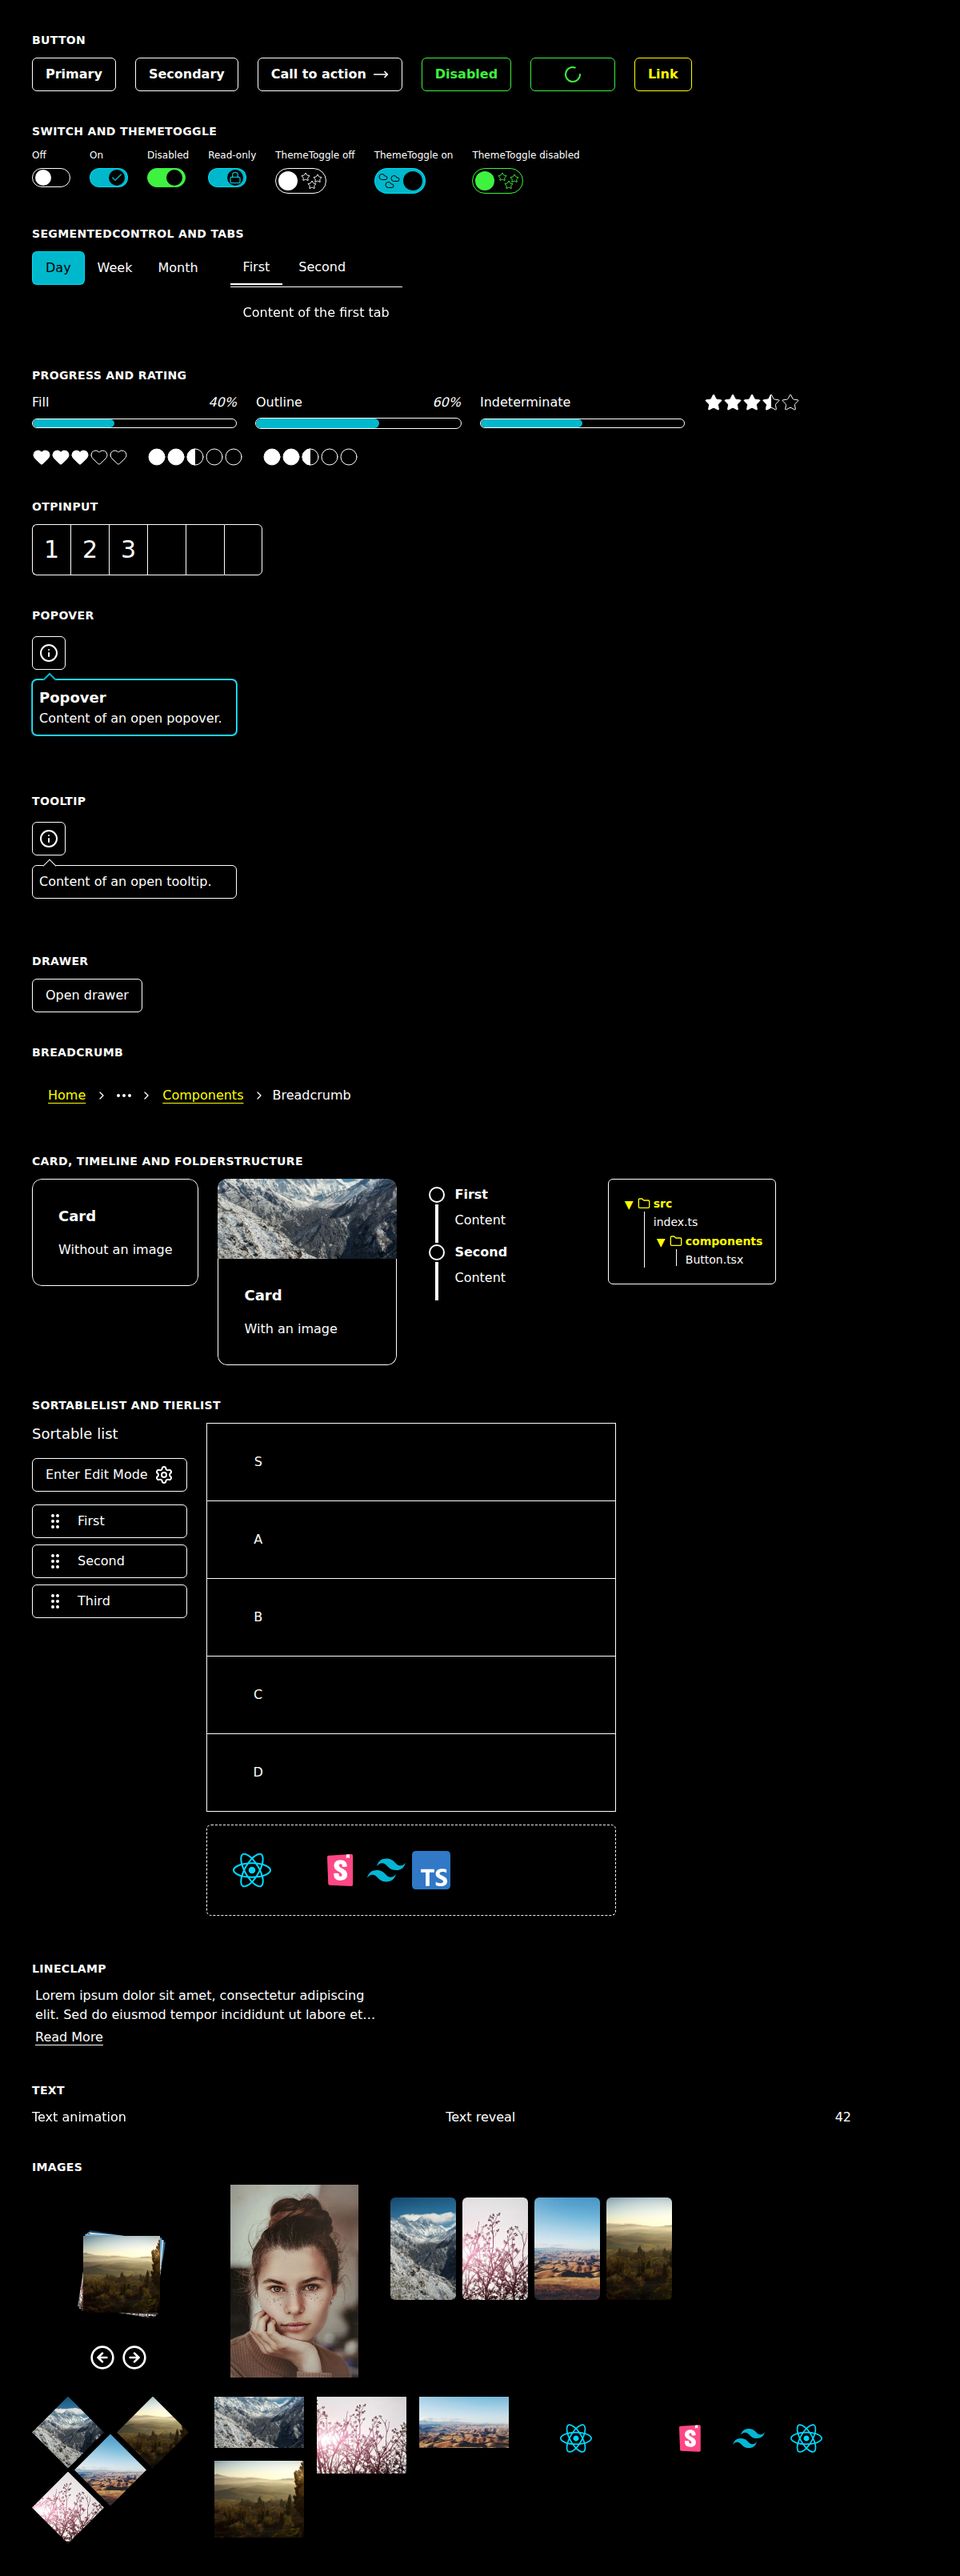
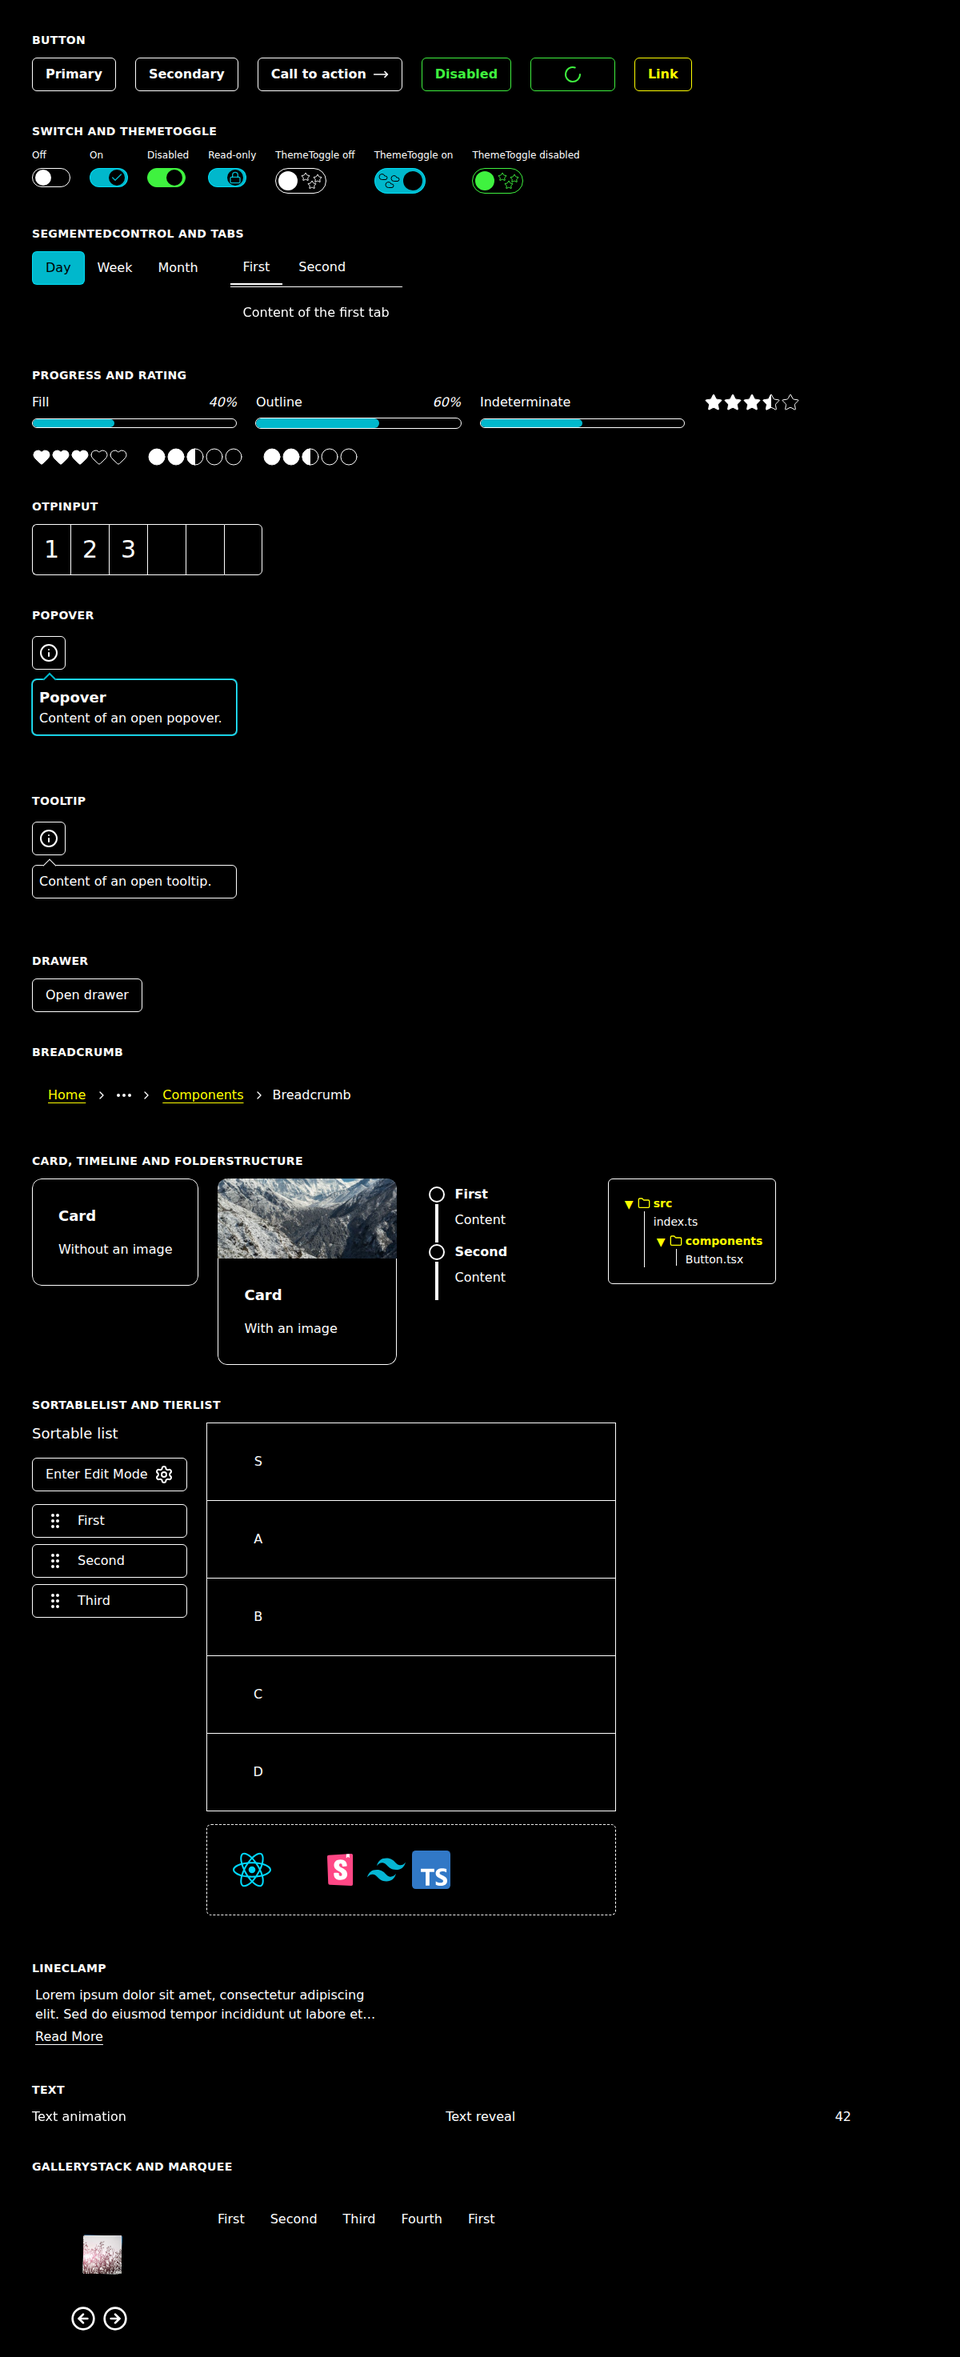
Leave layout-only image components out of the All Components page
DiamondGrid, ImageShowcase, Masonry and ShimmerImage only lay out
images or add effects that forced colors don't change, and their photos
made the high contrast screenshots several times larger. GalleryStack
stays for its buttons, with two images; Marquee scrolls text instead of
logos. The screenshots go from about 1.1 MB to 590 KB.

Claude-Session: https://claude.ai/code/session_01Tpmt357CoN6A5EUsutHyN1

diff --git a/src/_stories/AllComponentsGallery.tsx b/src/_stories/AllComponentsGallery.tsx
@@ -10,19 +10,16 @@ import {
   Card,
   CardContent,
   CardTitle,
-  DiamondGrid,
   Drawer,
   DrawerContent,
   DrawerRoot,
   DrawerTrigger,
   FolderStructure,
   GalleryStack,
-  ImageShowcase,
   LineClamp,
   LineClampRoot,
   LineClampTrigger,
   Marquee,
-  Masonry,
   OTPInput,
   Popover,
   PopoverContent,
@@ -31,7 +28,6 @@ import {
   Progress,
   Rating,
   SegmentedControl,
-  ShimmerImage,
   SortableList,
   Switch,
   Tabs,
@@ -46,16 +42,13 @@ import {
 } from "../../index";
 import image001 from "../_data/images/picture001.jpg";
 import image002 from "../_data/images/picture002.jpg";
-import image003 from "../_data/images/picture003.jpg";
-import image004 from "../_data/images/picture004.jpg";
-import profilePicture from "../_data/images/profile001.jpg";
 import NextIcon from "../_data/icons/next.svg";
 import ReactIcon from "../_data/icons/react.svg";
 import StorybookIcon from "../_data/icons/storybook.svg";
 import TailwindIcon from "../_data/icons/tailwind.svg";
 import TypeScriptIcon from "../_data/icons/typescript.svg";
 
-const images = [image001, image002, image003, image004];
+const images = [image001, image002];
 
 const Section = ({ title, children }: { title: string; children: React.ReactNode }) => (
   <section aria-labelledby={`gallery-${title}`} className="flex flex-col gap-3">
@@ -77,6 +70,10 @@ const Example = ({ label, children }: { label: string; children: React.ReactNode
  * Every component on one page, in the states that look different: selected, checked, disabled, loading, read-only, open.
  * Overlays are rendered open, except the Drawer, which is modal: the high contrast screenshot script opens it separately.
  * Keep it deterministic: the screenshots of this page are compared over time.
+ *
+ * DiamondGrid, ImageShowcase, Masonry and ShimmerImage are left out on purpose: they only lay out images or add effects
+ * (filters, a gradient) that forced colors don't change, and their photos would make the screenshots several times larger.
+ * Add a component like that once it gets its own colors, borders or controls. GalleryStack stays for its buttons.
  */
 export const AllComponentsGallery = () => (
   <div className="flex max-w-5xl flex-col gap-10 text-foreground">
@@ -257,35 +254,17 @@ export const AllComponentsGallery = () => (
       <AnimatedCount count={42} duration={500} />
     </Section>
 
-    <Section title="Images">
-      <div className="relative h-56 w-56">
+    <Section title="GalleryStack and Marquee">
+      <div className="relative h-44 w-44">
         <GalleryStack>
           {images.map((src, idx) => (
-            <img src={src} alt="" width={180} height={180} key={idx} />
+            <img src={src} alt="" width={120} height={120} key={idx} />
           ))}
         </GalleryStack>
       </div>
-      <ShimmerImage src={profilePicture} width={160} alt="" />
-      <ImageShowcase className="h-40 w-96">
-        {images.map((src, idx) => (
-          <img src={src} alt="" key={idx} />
-        ))}
-      </ImageShowcase>
-      <DiamondGrid itemWidth={90}>
-        {images.map((src, idx) => (
-          <img src={src} alt="" width={90} height={90} key={idx} />
-        ))}
-      </DiamondGrid>
-      <div className="w-96">
-        <Masonry columns={3}>
-          {images.map((src, idx) => (
-            <img src={src} alt="" key={idx} className={idx % 2 ? "h-24 object-cover" : "h-16 object-cover"} />
-          ))}
-        </Masonry>
-      </div>
       <Marquee className="w-96" pauseOnHover={false}>
-        {[ReactIcon, NextIcon, StorybookIcon, TailwindIcon].map((icon, idx) => (
-          <img src={icon} alt="" className="h-10 w-10" key={idx} />
+        {["First", "Second", "Third", "Fourth"].map((item) => (
+          <span key={item}>{item}</span>
         ))}
       </Marquee>
     </Section>

diff --git a/docs/ACCESSIBILITY.md b/docs/ACCESSIBILITY.md
@@ -143,7 +143,7 @@ Checked in the published code of Fluent UI v9, React Spectrum S2, MUI 9 (includi
 
 ### Testing
 
-- **Storybook:** the **Overview/All Components** page has every component in its notable states. Its **High Contrast** story shows screenshots of that page in both emulated palettes, including an open Drawer. After changing a component's styles, regenerate them with `npm run screenshots:high-contrast`, check the result in the High Contrast story, and commit the screenshots with the change. When you add a component or a state, add it to `src/_stories/AllComponentsGallery.tsx`. The command builds Storybook first; pass `-- --url http://localhost:6006` to use a running Storybook instead. It needs Playwright's Chromium (`npx playwright install chromium`).
+- **Storybook:** the **Overview/All Components** page has every component in its notable states. Its **High Contrast** story shows screenshots of that page in both emulated palettes, including an open Drawer. After changing a component's styles, regenerate them with `npm run screenshots:high-contrast`, check the result in the High Contrast story, and commit the screenshots with the change. When you add a component or a state, add it to `src/_stories/AllComponentsGallery.tsx`. Components that only lay out images or add effects forced colors don't change (DiamondGrid, ImageShowcase, Masonry, ShimmerImage) are left out to keep the screenshots small; add them once they get their own colors, borders or controls. The command builds Storybook first; pass `-- --url http://localhost:6006` to use a running Storybook instead. It needs Playwright's Chromium (`npx playwright install chromium`).
 - **Chrome or Edge DevTools:** Rendering panel → "Emulate CSS media feature forced-colors: active", combined with `prefers-color-scheme` light and dark for both emulated palettes. Check the library's light and dark theme too.
 - **Playwright:** `page.emulateMedia({ forcedColors: "active", colorScheme: "dark" })`. Screenshot every state (default, hover, focus, selected, disabled, read-only) normally and in both palettes. When you read a color with `getComputedStyle`, wait for transitions first: `transition-colors` also animates `outline-color` and `border-color`.
 - **Windows:** Settings → Accessibility → Contrast themes, or left Alt + left Shift + Print Screen. Real themes (Aquatic, Desert, Dusk, Night sky) have other colors than the emulation, so check at least one dark and one light theme before a release.
